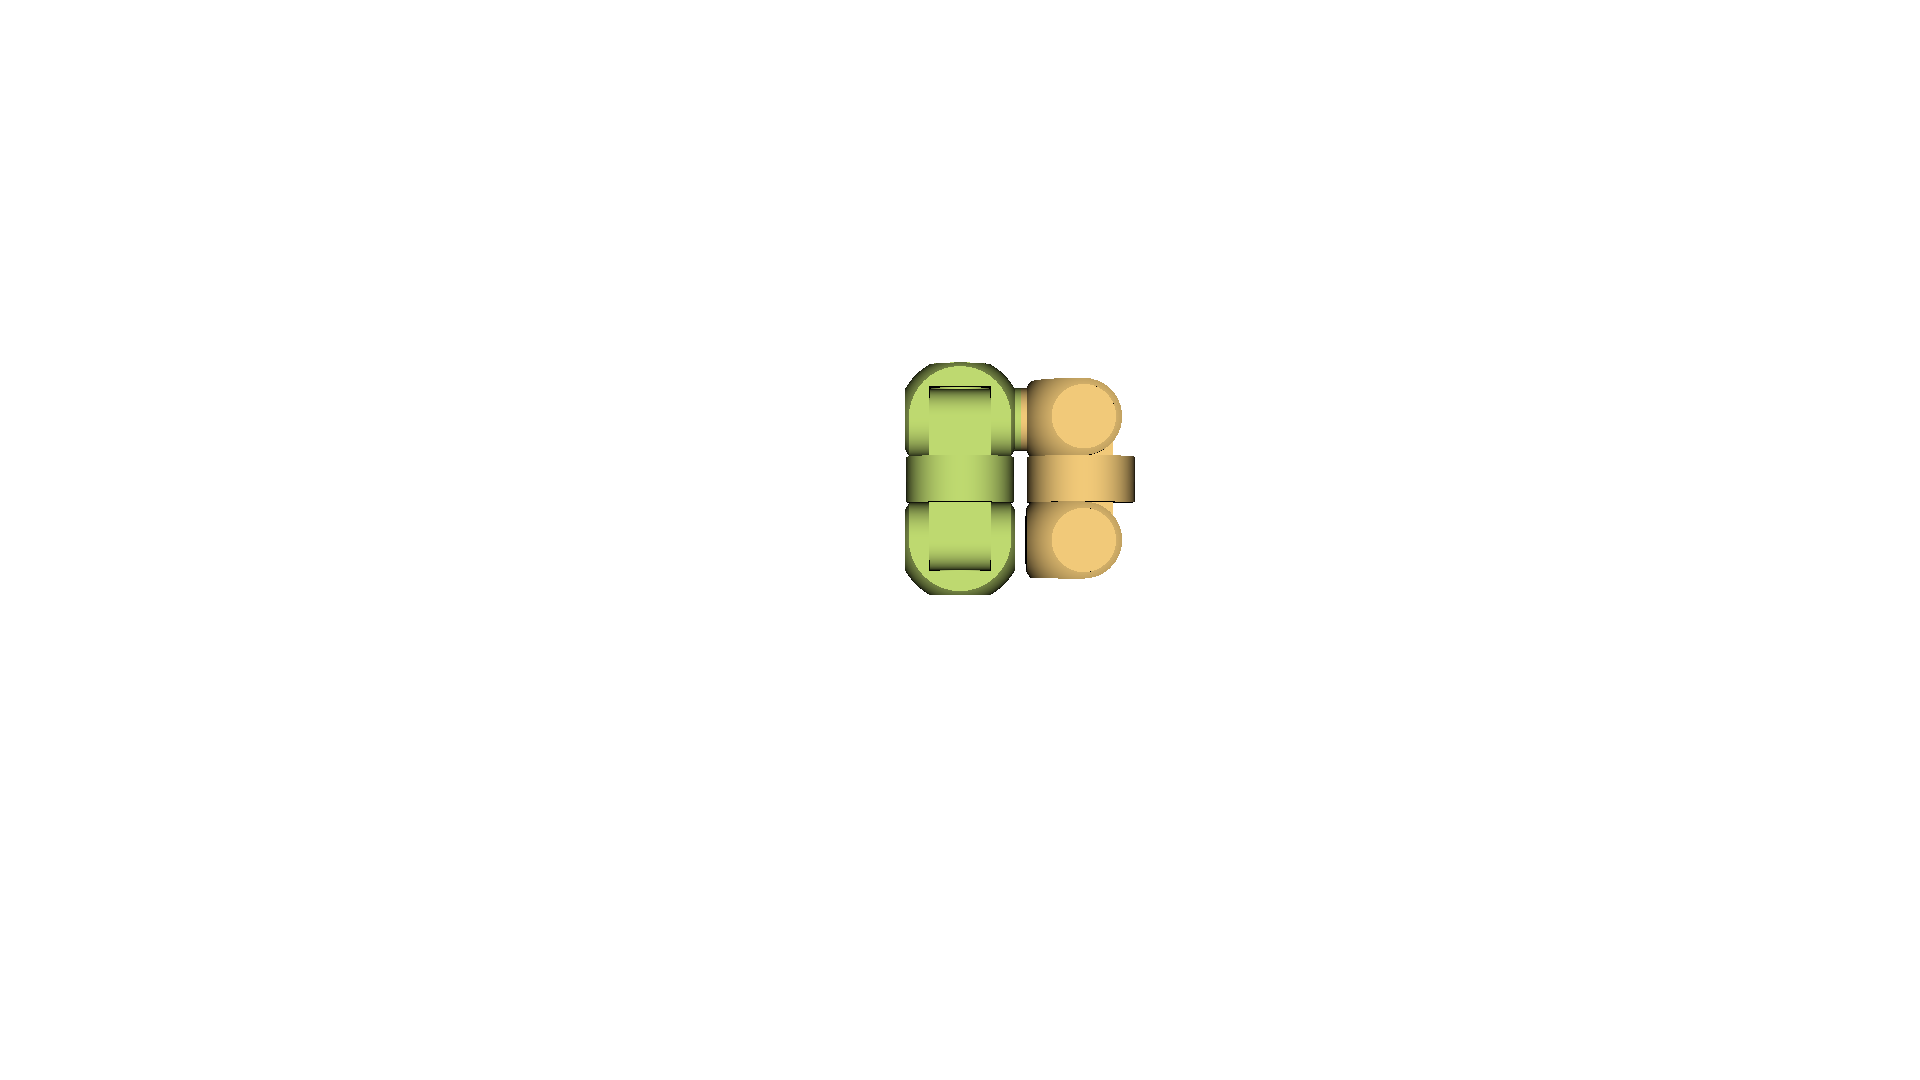
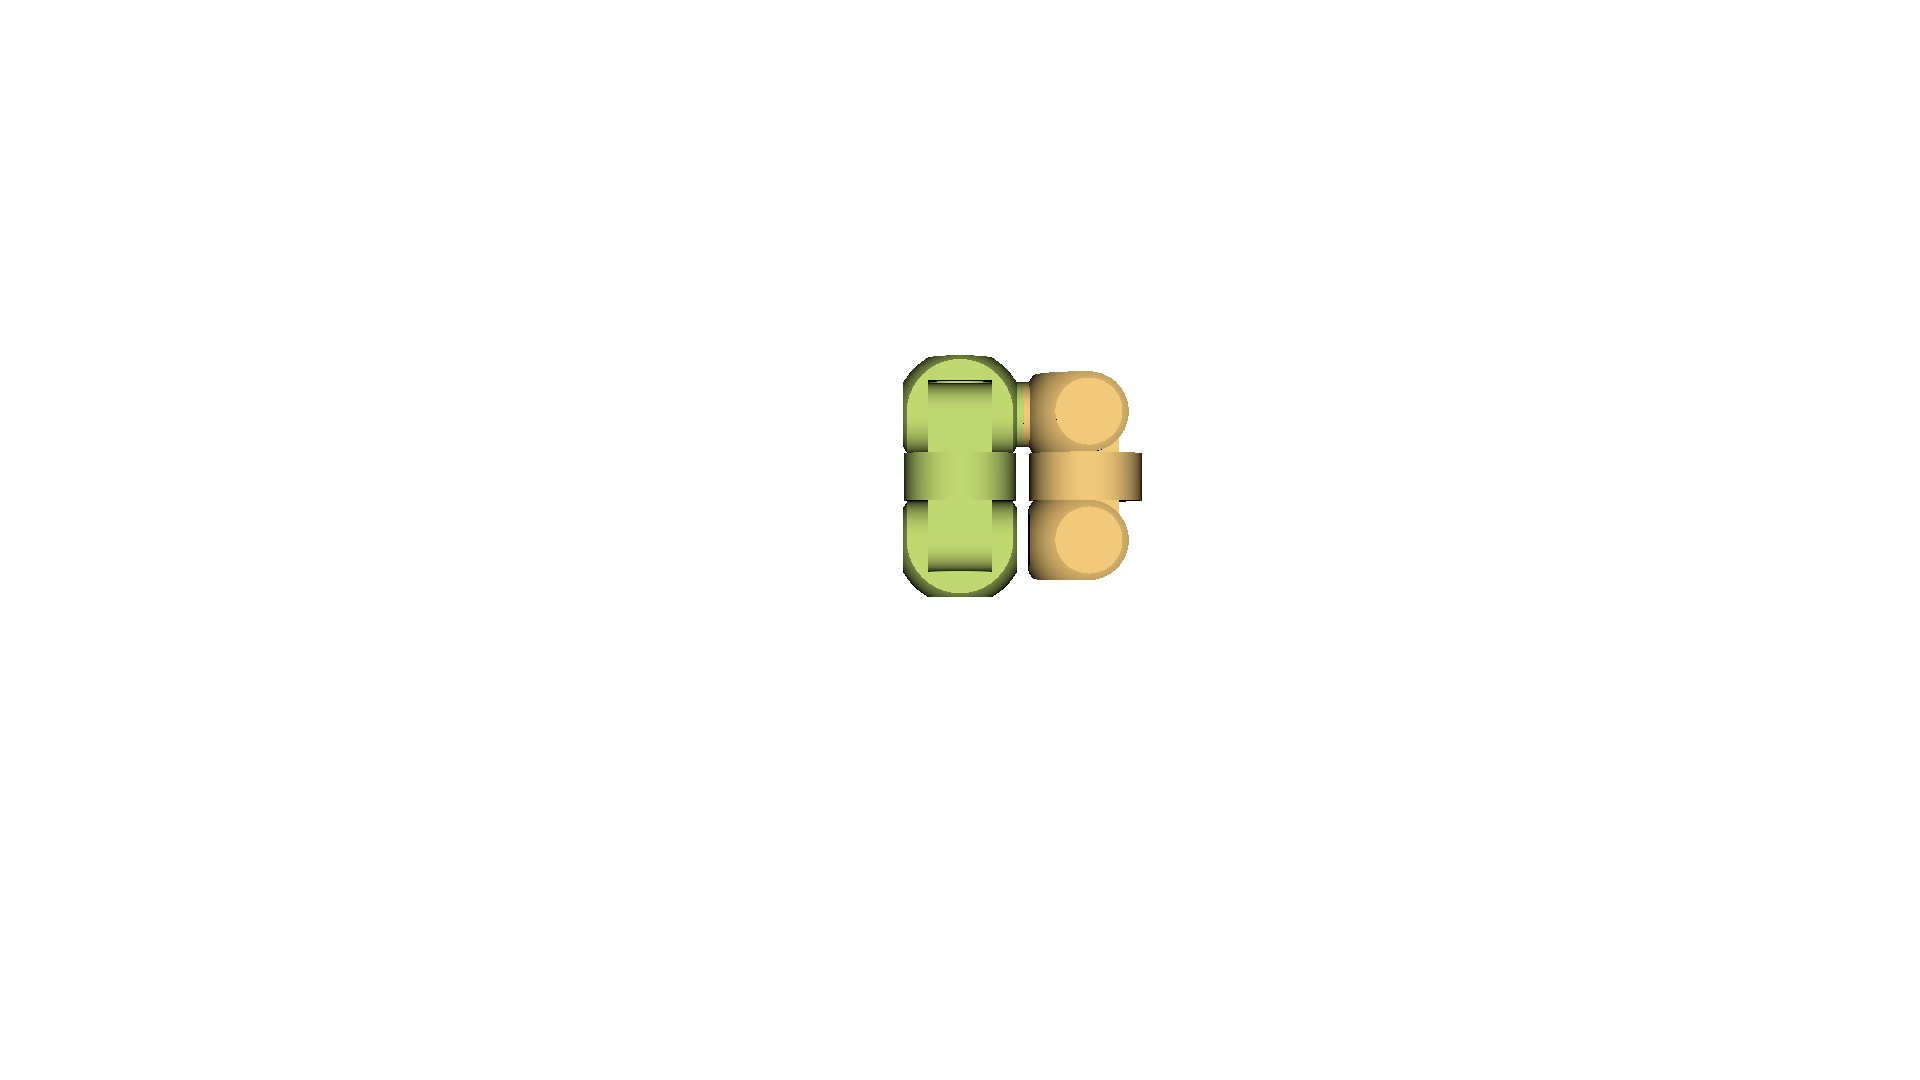
RoFILib: Visualizer fixed.

Changed region(s): [[0.4688, 0.3056, 0.5938, 0.55], [0.4688, 0.5194, 0.5312, 0.55]]

diff --git a/RoFILib/visualizer/Animator.h b/RoFILib/visualizer/Animator.h
@@ -23,9 +23,9 @@ public:
         if (mainConfigs.size() == 1){
             allConfigs.push_back(mainConfigs.at(0));
         } else {
-        for (unsigned long i = 0; i < mainConfigs.size() - 2; i++){
-            Configuration& c1 = mainConfigs.at(i);
-            Configuration& c2 = mainConfigs.at(i + 1);
+        for (unsigned long i = 0; i < mainConfigs.size() - 1; i++){
+            const Configuration& c1 = mainConfigs.at(i);
+            const Configuration& c2 = mainConfigs.at(i + 1);
             std::vector<Configuration> generatedConfigs;
             Generator generator;
             generator.generate(c1, c2, generatedConfigs, maxPhi, reconnectionPics);
@@ -33,7 +33,7 @@ public:
                 allConfigs.push_back(c1);
                 firstConfig = false;
             }
-            for (Configuration& c : generatedConfigs){
+            for (const Configuration& c : generatedConfigs){
                 allConfigs.push_back(c);
             }
             allConfigs.push_back(c2);
@@ -41,10 +41,6 @@ public:
         }
         }
         visualizeAllConfigs(allConfigs, path, savePicture, cameraStart, cameraEnd);
-        Printer printer;
-        std::ofstream file;
-        file.open("../data/path.txt");
-        file << printer.print(allConfigs);
     }
 
     void visualizeAllConfigs(std::vector<Configuration>& allConfigs, const std::string& path, bool savePicture,

diff --git a/RoFILib/visualizer/Generator.h b/RoFILib/visualizer/Generator.h
@@ -35,9 +35,13 @@ public:
             CurrConf.addModule(alpha, beta, gamma, mod1.getId());
         }
         for ( const auto& [id1, edges1] : InitConf.getEdges()){
-            for( const auto& edge : edges1){
-                CurrConf.addEdge({edge->id1, edge->side1, edge->dock1, edge->ori, edge->dock2,
-                        edge->side2, edge->id2});
+            for (const std::optional<Edge>& edgeOpt : edges1){
+                if (!edgeOpt.has_value())
+                    continue;
+                const Edge& edge = edgeOpt.value();
+                if (!CurrConf.addEdge({edge.id1, edge.side1, edge.dock1, edge.ori, edge.dock2,
+                                  edge.side2, edge.id2})){
+                }
             }
         }
     }

diff --git a/RoFILib/visualizer/main.cpp b/RoFILib/visualizer/main.cpp
@@ -31,13 +31,13 @@ int mainAnimator(){
 
 int main(int argc, char *argv[])
 {
-/*
+#if 0
     mainAnimator();
     return 0;
 
     mainWithAnimation();
     return 0;
-*/
+#else
     Reader reader;
     Visualizer vis;
 
@@ -87,5 +87,6 @@ int main(int argc, char *argv[])
             std::cerr << "Could not open file: " << argv[i] << ".\n";
         }
     }
+#endif
 }
 
